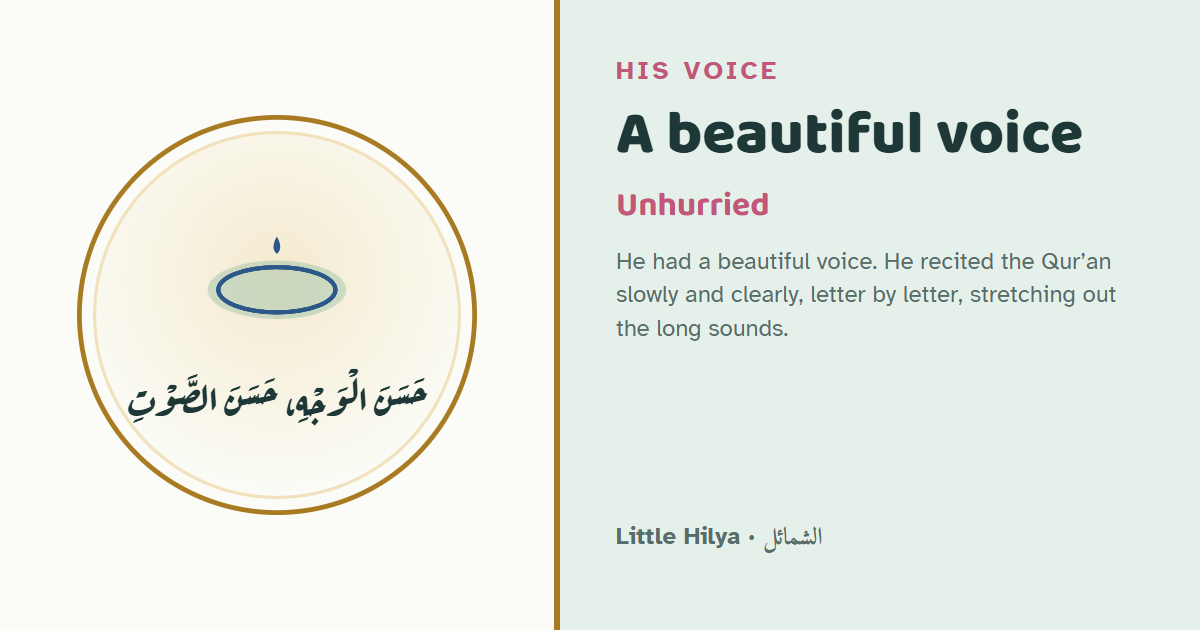
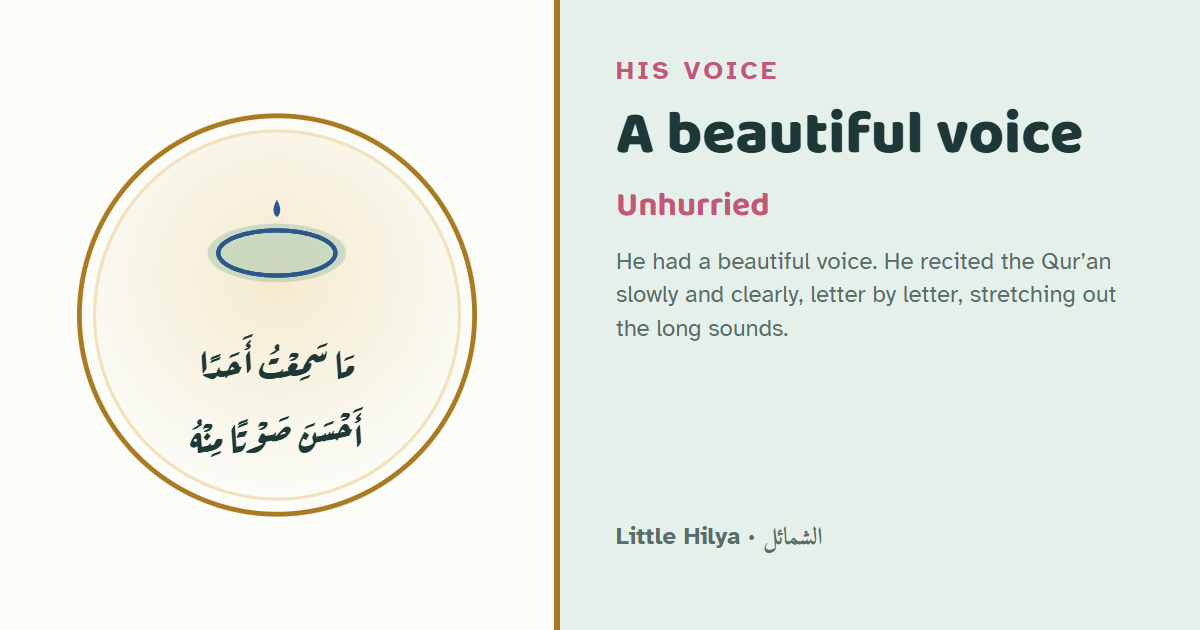
Lead the voice station with al-Bara's report and add the Torah sign

diff --git a/src/data/stations/15-voice.ts b/src/data/stations/15-voice.ts
@@ -5,15 +5,14 @@ export default defineStation({
   id: "voice",
   name: "His voice",
   icon: "ripples",
-  phrase: "حَسَنَ الْوَجْهِ، حَسَنَ الصَّوْتِ",
+  phrase: "مَا سَمِعْتُ أَحَدًا أَحْسَنَ صَوْتًا مِنْهُ",
   title: "A beautiful voice",
   line: "He had a beautiful voice. He recited the Qur’an slowly and clearly, letter by letter, stretching out the long sounds.",
   physical: [
     {
-      ref: "shamail:319",
-      phrase: "حَسَنَ الْوَجْهِ، حَسَنَ الصَّوْتِ",
-      gloss: "Endowed with a handsome face and a beautiful voice.",
-      note: "These are the words of Qatāda (a Successor), not a Companion. Its last clause “he did not chant in a quavering tone” sits oddly beside #307, where the same verb رَجَّعَ is translated “recited in a quivering voice”.",
+      ref: "bukhari:769",
+      phrase: "وَمَا سَمِعْتُ أَحَدًا أَحْسَنَ صَوْتًا مِنْهُ أَوْ قِرَاءَةً",
+      gloss: "I never heard anyone with a more beautiful voice or recitation than him.",
     },
     {
       ref: "shamail:313",
@@ -49,6 +48,12 @@ export default defineStation({
       line: "At Minā, the people could hear what he said even while they were sitting in their own tents.",
       ref: "abudawud:1957",
       note: "Arabic فَفُتِحَتْ أَسْمَاعُنَا, “our ears were opened (for us)”; dataset English “Our ears were open” loses that.",
+    },
+    {
+      kind: "khasisa",
+      title: "Described before he came",
+      line: "The Torah described him long before he was born: not harsh, not rough, and never shouting in the markets.",
+      ref: "bukhari:2125",
     },
   ],
   mirror: "Read a few words to the mirror, slowly and clearly. How does it feel to take your time?",

diff --git a/data/notes/stations.notes.md b/data/notes/stations.notes.md
@@ -23,7 +23,7 @@ Chapter 1 follows the long descriptions (#7 ‘Alī, #8 Hind) from head to toe. 
 | 13 | hair | ch3–6 + ch1 #8 | seal |
 | 14 | speech | ch33 #222–224 | hair |
 | 15 | smile | ch34 #224–232 | speech |
-| 16 | voice | ch44 #313–319 | smile |
+| 16 | voice | ch44 #313–317 + bukhari:769 | smile |
 | 17 | tears | ch45 #321–324 | voice |
 
 ## Merges
@@ -40,7 +40,7 @@ Chapter 1 follows the long descriptions (#7 ‘Alī, #8 Hind) from head to toe. 
 
 ## Signs
 
-15 cited signs (6 mujiza, 5 karama, 4 khasisa) and 1 research card. The kind on every card is our own classification, not the source's.
+24 cited signs (8 mujiza, 7 karama, 9 khasisa) and 2 research cards (stature, hands). The kind on every card is our own classification, not the source's.
 
 Research needed:
 - **stature**: the report that he looked taller than tall people walking beside him. It is not in Bukhari, Muslim, Tirmidhi, Abu Dawud, Mishkat or the dataset's partial Ahmad.
@@ -87,7 +87,6 @@ These are recorded in `corrections.json`. `src/data/texts.ts` applies only the "
 - **chest** sign bukhari:349 (Jibrīl opening and washing his chest). muslim:162c (number from the add-on, not yet checked on sunnah.com), the childhood version, is more graphic ("took out the heart… blood-clot"), so I used the Isrā’ version instead.
 - **seal**: "A sign for Salmān" is labelled khasisa because the Seal itself is unique to him. The date palms are labelled mujiza.
 - **voice**: Minā (abudawud:1957) is labelled mujiza. It could equally be karama.
-- **voice** physical shamail:319 is Qatāda's own statement (a Successor), not a Companion's description.
 - **neck**: "turned all the way round" is my reading of الْتَفَتَ مَعًا/جميعا, following the usual commentary.
 - **feet** and **mouth** use saliva and foot-strike reports. The kid lines say "put a little of his saliva" and "struck it with his foot", matching the dataset English.
 - Station phrases were copied from the dataset. `bun run check` checks that each one occurs in its hadith's Arabic, ignoring voweling and punctuation.
